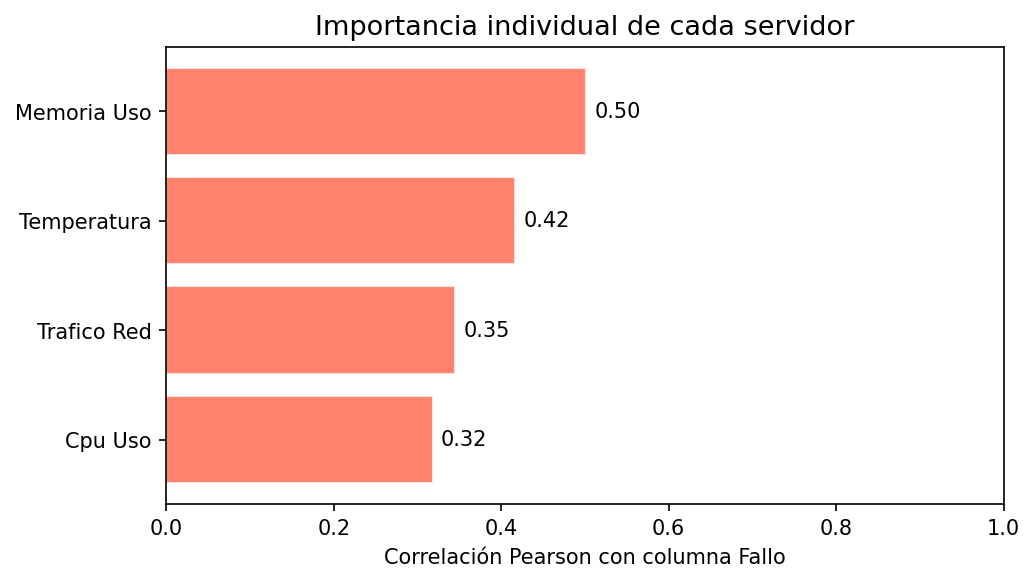
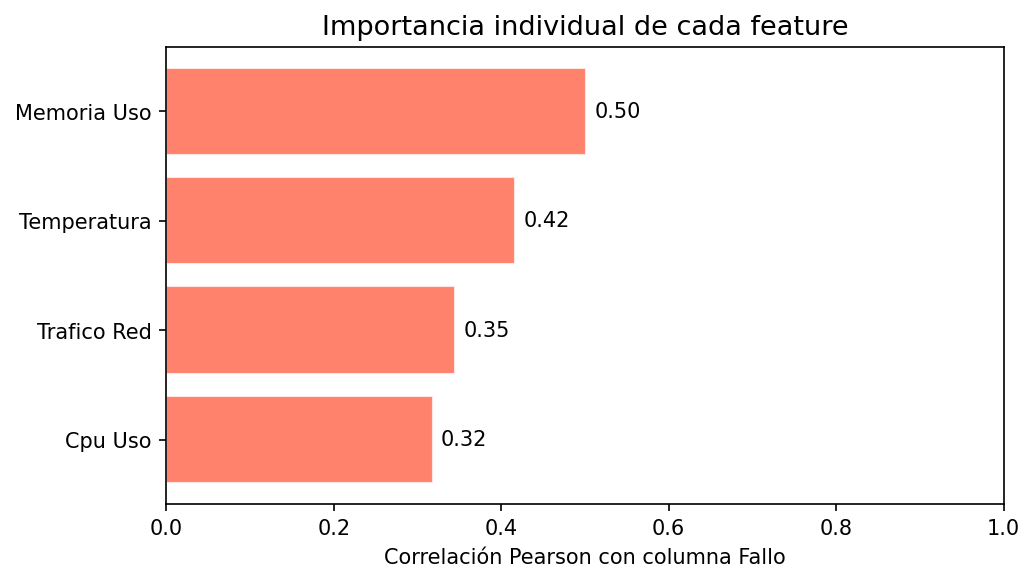
Actualiza README con métricas reales y corrige gráfico de importancia

Changed region(s): [[0.3092, 0.0309, 0.8348, 0.0619]]

diff --git a/scripts/eda.py b/scripts/eda.py
@@ -151,7 +151,7 @@ ax.barh(
 )
 
 ax.set_xlabel('Correlación Pearson con columna Fallo', fontsize=10)
-ax.set_title('Importancia individual de cada servidor', fontsize=13)
+ax.set_title('Importancia individual de cada feature', fontsize=13)
 ax.set_xlim(0, 1.0)
 # Añadimos valor de la correlación al final de cada barra
 for i, v in enumerate(corr_target.values):
